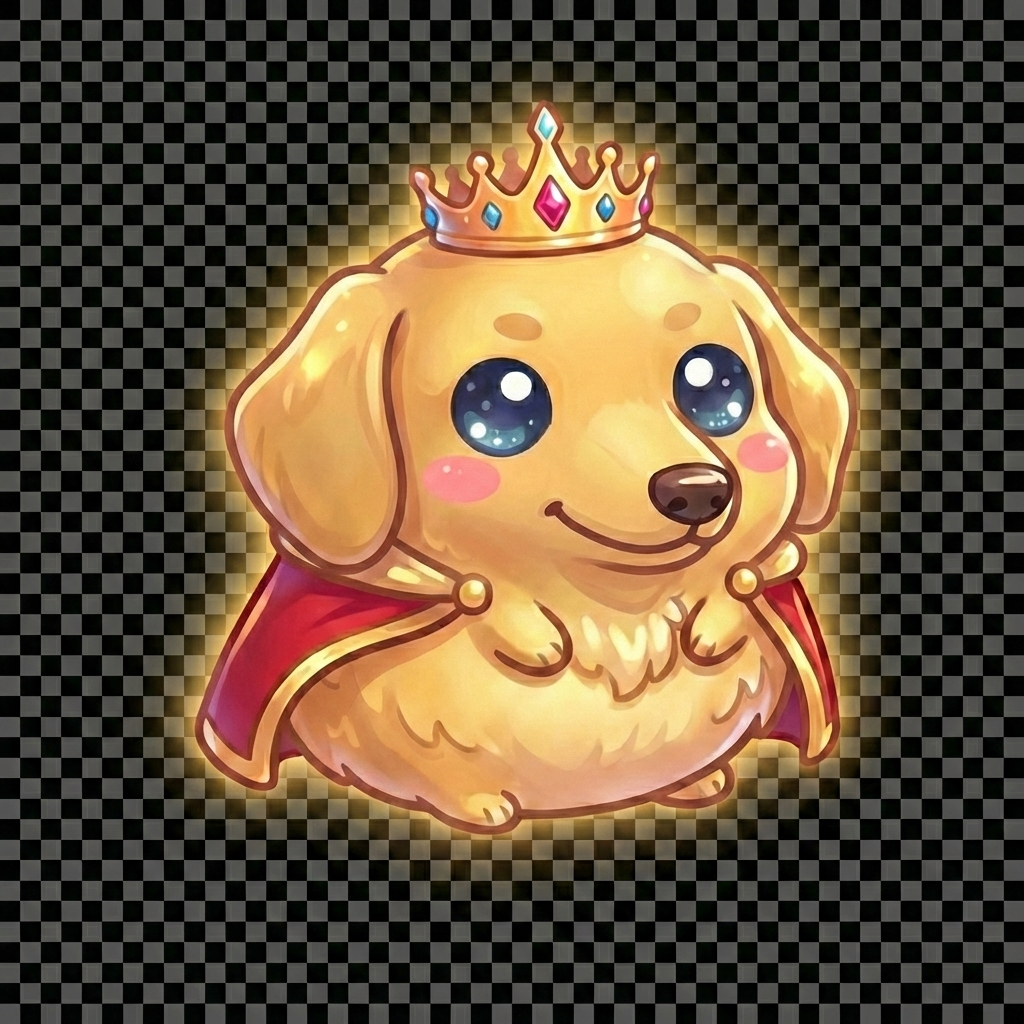
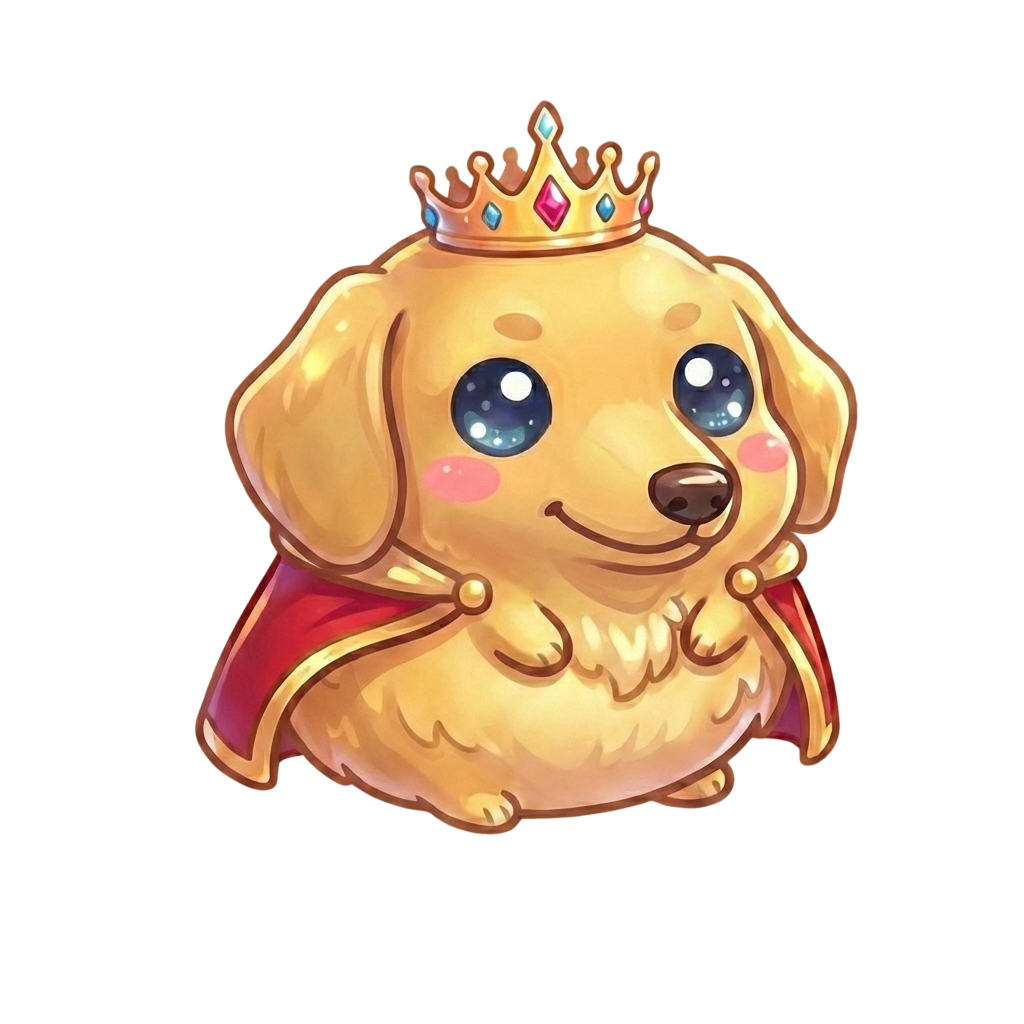
Replace Samoyed with Golden Retriever (tier 5)
- Added golden.png sprite, removed samoyed.png
- Updated themes.ts and constants.ts for new animal
- Updated all documentation (README, PRD, CLAUDE.md, etc.)
- Golden Retriever replaces Samoyed in the animal progression

diff --git a/src/progression/themes.ts b/src/progression/themes.ts
@@ -38,7 +38,7 @@ export const PASTEL_PAWS_THEME: Theme = {
     { tier: 2, name: 'Shiba', spritePath: '/assets/images/pastelPaws/shiba.png' },
     { tier: 3, name: 'Westie', spritePath: '/assets/images/pastelPaws/westie.png' },
     { tier: 4, name: 'Husky', spritePath: '/assets/images/pastelPaws/husky.png' },
-    { tier: 5, name: 'Samoyed', spritePath: '/assets/images/pastelPaws/samoyed.png' },
+    { tier: 5, name: 'Golden', spritePath: '/assets/images/pastelPaws/golden.png' },
     { tier: 6, name: 'Big Floof', spritePath: '/assets/images/pastelPaws/bigFloof.png' }
   ],
   colors: {

diff --git a/src/utils/constants.ts b/src/utils/constants.ts
@@ -71,10 +71,10 @@ export const ANIMAL_TIERS: AnimalTier[] = [
   },
   {
     id: 5,
-    name: 'Samoyed',
+    name: 'Golden',
     scale: 3.0,
     baseRadius: 20,
-    color: '#DDA0DD', // Plum
+    color: '#DAA520', // Golden rod
     score: 500
   },
   {
@@ -94,7 +94,7 @@ export const SPAWN_WEIGHTS = {
   2: 20, // Shiba - 20%
   3: 10, // Westie - 10%
   4: 0,  // Husky - not spawnable
-  5: 0,  // Samoyed - not spawnable
+  5: 0,  // Golden - not spawnable
   6: 0   // Big Floof - not spawnable
 };
 

diff --git a/ASSETS_NEEDED.md b/ASSETS_NEEDED.md
@@ -14,7 +14,7 @@ Style: Kawaii/Sanrio-inspired with big eyes, blush cheeks, soft gradients.
 3. `/src/assets/images/pastelPaws/shiba.png` - Shiba Inu dog
 4. `/src/assets/images/pastelPaws/westie.png` - West Highland Terrier
 5. `/src/assets/images/pastelPaws/husky.png` - Husky dog (larger)
-6. `/src/assets/images/pastelPaws/samoyed.png` - Fluffy Samoyed (even larger)
+6. `/src/assets/images/pastelPaws/golden.png` - Fluffy Golden Retriever (even larger)
 7. `/src/assets/images/pastelPaws/bigFloof.png` - Magical ultimate floof (largest)
 
 **Size scaling reference:**
@@ -23,7 +23,7 @@ Style: Kawaii/Sanrio-inspired with big eyes, blush cheeks, soft gradients.
 - Shiba: 1.6x
 - Westie: 2.0x
 - Husky: 2.5x
-- Samoyed: 3.0x
+- Golden: 3.0x
 - Big Floof: 3.5x
 
 ### Ocean Dreams Theme (Priority: Medium)
@@ -60,8 +60,8 @@ Prompt: A high-quality 2D kawaii asset of a fluffy white West Highland Terrier. 
 🐺 Tier 5: Husky
 Prompt: A high-quality 2D kawaii asset of a grey and white husky dog. Sanrio-inspired style, perfectly spherical body shape, ultra-cute with bright blue sparkly eyes and white highlights, tiny pink blush circles on cheeks. Soft grey and white gradient fur with distinct, cute face markings. Simple features, fluffy cheeks, and pointed ears. Isolated on a solid white background. 512x512px, clean vector art style, thick rounded sticker-like outline.
 
-☁ Tier 6: Samoyed
-Prompt: A high-quality 2D kawaii asset of a massive fluffy white Samoyed dog. Sanrio-inspired style, perfectly spherical body shape, ultra-cute with big sparkly eyes and white highlights, tiny pink blush circles on cheeks. Cloud-like pure white gradient fur with extra fluff. Simple features, a constant happy smile, and small ears. Isolated on a solid white background. 512x512px, clean vector art style, thick rounded sticker-like outline.
+☁ Tier 6: Golden
+Prompt: A high-quality 2D kawaii asset of a massive fluffy white Golden dog. Sanrio-inspired style, perfectly spherical body shape, ultra-cute with big sparkly eyes and white highlights, tiny pink blush circles on cheeks. Cloud-like pure white gradient fur with extra fluff. Simple features, a constant happy smile, and small ears. Isolated on a solid white background. 512x512px, clean vector art style, thick rounded sticker-like outline.
 
 ✨ Tier 7: Big Floof
 Prompt: A high-quality 2D kawaii asset of a magical ultimate floof ball. Sanrio-inspired style, perfectly spherical body shape, ultra-cute with big sparkly eyes and white highlights, tiny pink blush circles on cheeks. Shimmering rainbow pastel gradient fur with a maximum fluffy cloud texture. Small magical sparkle and heart particles surrounding the body. Isolated on a solid white background. 512x512px, clean vector art style, thick rounded sticker-like outline.

diff --git a/PRODUCT_DESIGN_DOC.md b/PRODUCT_DESIGN_DOC.md
@@ -21,7 +21,7 @@ A physics-based merge puzzle game where players drop spherical animals from the 
 3. **Shiba** - Orange/cream, classic doge face
 4. **Westie** - Pure white, perky ears, fluffy
 5. **Husky** - Grey/white with blue eyes
-6. **Samoyed** - Pure white, fluffy cloud
+6. **Golden** - Golden Retriever, fluffy and friendly
 7. **Big Floof** (Largest) - Ultimate fluff ball (rainbow pastel shimmer)
 
 **Special Rule:** When two Big Floofs merge, they disappear from the container with a magical sparkle effect and award massive bonus points, creating valuable space.
@@ -56,7 +56,7 @@ A physics-based merge puzzle game where players drop spherical animals from the 
   - Shiba merge: 50 points
   - Westie merge: 100 points
   - Husky merge: 200 points
-  - Samoyed merge: 500 points
+  - Golden merge: 500 points
   - Big Floof merge: 1000 points
   - Big Floof disappears: 2500 bonus points
 - **Score Display:** Continuously visible during gameplay
@@ -343,7 +343,7 @@ Quests give players short and long-term goals beyond high scores, creating engag
 - "Fluffy Focus" - Create 3 Westies in one game
 - "Chain Master" - Trigger a 3-merge chain reaction
 - "High Achiever" - Score 5000+ points
-- "Dog Lover" - Create one of each dog type in one game (Shiba, Westie, Husky, Samoyed)
+- "Dog Lover" - Create one of each dog type in one game (Shiba, Westie, Husky, Golden)
 
 *Hard (Per-Game):*
 - "Perfection" - Trigger a 5+ merge chain reaction
@@ -831,7 +831,7 @@ These can be added after the core game is complete and tested:
 - Color: Grey/white with blue eyes (#A9A9A9)
 - Features: Fluffy, distinct face markings
 
-**Tier 6 - Samoyed:**
+**Tier 6 - Golden:**
 - Size multiplier: 3x
 - Color: Pure white (#FFFFFF)
 - Features: Ultra fluffy, constant smile, cloud-like

diff --git a/README.md b/README.md
@@ -4,7 +4,7 @@ A mobile-first physics-based merge puzzle game with cute animals, quest system, 
 
 ## Features
 
-- **7-Tier Animal System**: Merge identical animals to create bigger ones (Hamster → Cat → Shiba → Westie → Husky → Samoyed → Big Floof)
+- **7-Tier Animal System**: Merge identical animals to create bigger ones (Hamster → Cat → Shiba → Westie → Husky → Golden → Big Floof)
 - **Physics-Based Gameplay**: Realistic physics powered by Matter.js
 - **Quest System**: Daily quests and lifetime achievements
 - **Theme System**: Unlock new themes (Pastel Paws, Ocean Dreams) by earning stars

diff --git a/PROJECT_HANDOFF.md b/PROJECT_HANDOFF.md
@@ -118,7 +118,7 @@ You can upload the project files to these platforms and run them there.
 ### Core Gameplay
 1. **Drop Animals**: Click/tap anywhere to drop cute animals
 2. **Merge**: Two identical animals touching = merge into bigger animal
-3. **7 Tiers**: Hamster → Cat → Shiba → Westie → Husky → Samoyed → Big Floof
+3. **7 Tiers**: Hamster → Cat → Shiba → Westie → Husky → Golden → Big Floof
 4. **Scoring**: Earn points for each merge
 5. **Danger Line**: Don't let animals stay above red line for 3+ seconds
 6. **Game Over**: Exceeding danger time triggers game over modal

diff --git a/CLAUDE.md b/CLAUDE.md
@@ -34,7 +34,7 @@ The game uses a **Manager Pattern** architecture where `Game.ts` orchestrates al
 ### Animal System (7 Tiers)
 Defined in `src/utils/constants.ts`:
 - Tier 0-3: **Spawnable** (Hamster, Cat, Shiba, Westie) - weighted random spawn
-- Tier 4-5: **Mergeable only** (Husky, Samoyed)
+- Tier 4-5: **Mergeable only** (Husky, Golden)
 - Tier 6: **Big Floof** - special behavior: two merge → disappear (clears space, awards 2500 points)
 
 Each tier has:

diff --git a/IMPLEMENTATION_SUMMARY.md b/IMPLEMENTATION_SUMMARY.md
@@ -142,7 +142,7 @@
 
 ### Images (Priority: High)
 - **Pastel Paws**: 7 kawaii animal sprites (512x512 PNG)
-  - Hamster, Cat, Shiba, Westie, Husky, Samoyed, Big Floof
+  - Hamster, Cat, Shiba, Westie, Husky, Golden, Big Floof
 - **Ocean Dreams**: 7 ocean creature sprites (512x512 PNG)
   - Seahorse, Jellyfish, Clownfish, Pufferfish, Dolphin, Orca, Ocean Spirit
 
